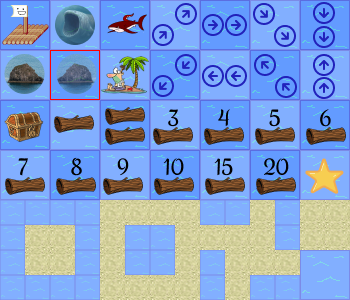
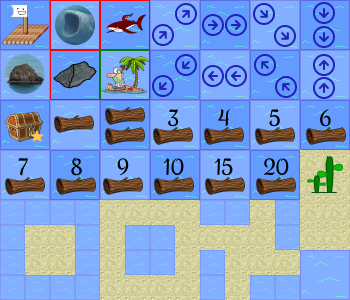
update tiled png

diff --git a/TechnicalPrototype/desktop/out/production/resources/levels/updatedTiledSet.tsx b/TechnicalPrototype/desktop/out/production/resources/levels/updatedTiledSet.tsx
@@ -4,38 +4,57 @@
  <tile id="0" type="Raft"/>
  <tile id="1" type="Siren"/>
  <tile id="2" type="Enemy"/>
+ <tile id="3" type="Current"/>
+ <tile id="4" type="Current"/>
+ <tile id="5" type="Current"/>
+ <tile id="6" type="Current"/>
+ <tile id="7" type="Rock"/>
+ <tile id="9" type="Goal"/>
+ <tile id="10" type="Current"/>
+ <tile id="11" type="Current"/>
+ <tile id="12" type="Current"/>
+ <tile id="13" type="Current"/>
+ <tile id="14" type="Treasure"/>
+ <tile id="15" type="Wood"/>
+ <tile id="16" type="Wood"/>
+ <tile id="17" type="Wood"/>
+ <tile id="18" type="Wood"/>
+ <tile id="19" type="Wood"/>
+ <tile id="20" type="Wood"/>
+ <tile id="21" type="Wood"/>
+ <tile id="22" type="Wood"/>
+ <tile id="23" type="Wood"/>
+ <tile id="24" type="Wood"/>
+ <tile id="25" type="Wood"/>
+ <tile id="26" type="Wood"/>
+ <tile id="27" type="Rock"/>
+ <tile id="28" type="Rock"/>
+ <tile id="29" type="Rock"/>
+ <tile id="30" type="Rock"/>
+ <tile id="31" type="Rock"/>
+ <tile id="32" type="Rock"/>
+ <tile id="33" type="Rock"/>
+ <tile id="34" type="Rock"/>
+ <tile id="35" type="Rock"/>
+ <tile id="36" type="Rock"/>
+ <tile id="37" type="Rock"/>
+ <tile id="38" type="Rock"/>
+ <tile id="39" type="Rock"/>
+ <tile id="40" type="Rock"/>
  <wangsets>
   <wangset name="Land Set" type="corner" tile="28">
    <wangcolor name="Land" color="#ff0000" tile="34" probability="1"/>
    <wangcolor name="Sea" color="#00ff00" tile="41" probability="1"/>
-   <wangtile tileid="0" wangid="0,2,0,2,0,2,0,2"/>
-   <wangtile tileid="1" wangid="0,2,0,2,0,2,0,2"/>
-   <wangtile tileid="2" wangid="0,2,0,2,0,2,0,2"/>
    <wangtile tileid="3" wangid="0,2,0,2,0,2,0,2"/>
    <wangtile tileid="4" wangid="0,2,0,2,0,2,0,2"/>
    <wangtile tileid="5" wangid="0,2,0,2,0,2,0,2"/>
    <wangtile tileid="6" wangid="0,2,0,2,0,2,0,2"/>
    <wangtile tileid="7" wangid="0,2,0,2,0,2,0,2"/>
    <wangtile tileid="8" wangid="0,2,0,2,0,2,0,2"/>
-   <wangtile tileid="9" wangid="0,2,0,2,0,2,0,2"/>
    <wangtile tileid="10" wangid="0,2,0,2,0,2,0,2"/>
    <wangtile tileid="11" wangid="0,2,0,2,0,2,0,2"/>
    <wangtile tileid="12" wangid="0,2,0,2,0,2,0,2"/>
    <wangtile tileid="13" wangid="0,2,0,2,0,2,0,2"/>
-   <wangtile tileid="14" wangid="0,2,0,2,0,2,0,2"/>
-   <wangtile tileid="15" wangid="0,2,0,2,0,2,0,2"/>
-   <wangtile tileid="16" wangid="0,2,0,2,0,2,0,2"/>
-   <wangtile tileid="17" wangid="0,2,0,2,0,2,0,2"/>
-   <wangtile tileid="18" wangid="0,2,0,2,0,2,0,2"/>
-   <wangtile tileid="19" wangid="0,2,0,2,0,2,0,2"/>
-   <wangtile tileid="20" wangid="0,2,0,2,0,2,0,2"/>
-   <wangtile tileid="21" wangid="0,2,0,2,0,2,0,2"/>
-   <wangtile tileid="22" wangid="0,2,0,2,0,2,0,2"/>
-   <wangtile tileid="23" wangid="0,2,0,2,0,2,0,2"/>
-   <wangtile tileid="24" wangid="0,2,0,2,0,2,0,2"/>
-   <wangtile tileid="25" wangid="0,2,0,2,0,2,0,2"/>
-   <wangtile tileid="26" wangid="0,2,0,2,0,2,0,2"/>
-   <wangtile tileid="27" wangid="0,1,0,1,0,1,0,1"/>
    <wangtile tileid="28" wangid="0,2,0,1,0,2,0,2"/>
    <wangtile tileid="29" wangid="0,2,0,2,0,1,0,2"/>
    <wangtile tileid="30" wangid="0,1,0,2,0,1,0,1"/>
